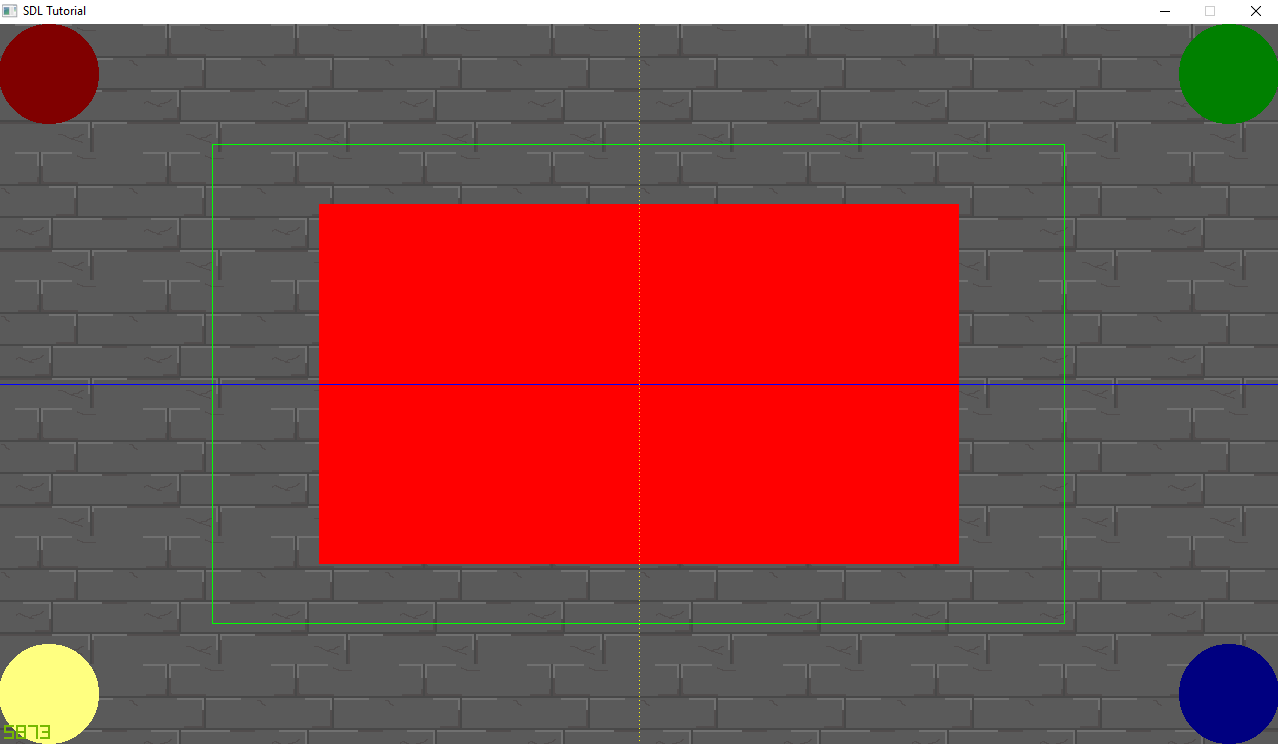
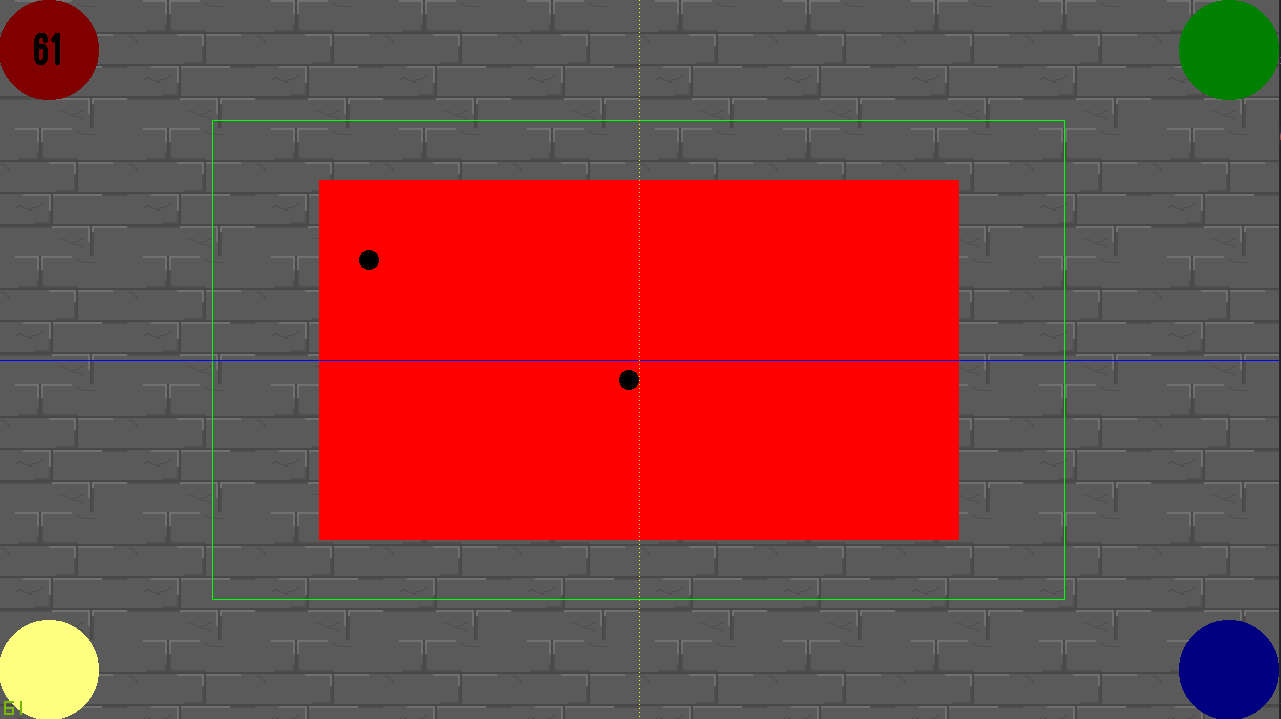
Add dot that bounces around the screen

diff --git a/src/dot.cpp b/src/dot.cpp
@@ -1,10 +1,10 @@
 #include "Dot.h"
 
-Dot::Dot() {
-    mPosX = 0;
-    mPosY = 0;
-    mVelX = 0;
-    mVelY = 0;
+Dot::Dot(int posX, int posY, int velX, int velY) {
+    mPosX = posX;
+    mPosY = posY;
+    mVelX = velX;
+    mVelY = velY;
     mTexture = NULL;
 }
 
@@ -35,6 +35,19 @@ void Dot::move(int screenHeight, int screenWidth) {
     if ((mPosX < 0) || (mPosX + DOT_WIDTH > screenWidth)) mPosX -= mVelX;
     mPosY += mVelY;
     if ((mPosY < 0) || (mPosY + DOT_HEIGHT > screenHeight)) mPosY -= mVelY;
+}
+
+void Dot::autoMove(int screenHeight, int screenWidth) {
+    mPosX += mVelX;
+    if ((mPosX < 0) || (mPosX + DOT_WIDTH > screenWidth)) {
+        mPosX -= mVelX;
+        mVelX = -mVelX;
+    }
+    mPosY += mVelY;
+    if ((mPosY < 0) || (mPosY + DOT_HEIGHT > screenHeight)) { 
+        mPosY -= mVelY;
+        mVelY = -mVelY;
+    }
 }
 
 void Dot::render(SDL_Renderer* renderer) {

diff --git a/src/main.cpp b/src/main.cpp
@@ -104,7 +104,9 @@ int main( int argc, char* args[] ) {
     SDL_Event e;
 
     Dot dot;
+    Dot autoDot(50, 80, 10, 10);
     dot.setTexture(&gDotTexture);
+    autoDot.setTexture(&gDotTexture);
 
     SDL_Color textColor = {0, 0, 0};
 
@@ -154,6 +156,7 @@ int main( int argc, char* args[] ) {
         }
 
         dot.move(SCREEN_HEIGHT, SCREEN_WIDTH);
+        autoDot.autoMove(SCREEN_HEIGHT, SCREEN_WIDTH);
 
         // Calculate and cap fps
         float avgFPS = countedFrames / (fpsTimer.getTicks() / 1000.f);
@@ -202,6 +205,7 @@ int main( int argc, char* args[] ) {
         }
 
         dot.render(gRenderer);
+        autoDot.render(gRenderer);
 
         gTimeTexture.render(gRenderer, 50 - gTimeTexture.getWidth() / 2, 50 - gTimeTexture.getHeight() / 2);
 

diff --git a/include/Dot.h b/include/Dot.h
@@ -15,9 +15,10 @@ class Dot {
         static const int DOT_WIDTH = 20;
         static const int DOT_HEIGHT = 20;
         static const int DOT_VEL = 10;
-        Dot();
+        Dot(int posX = 0, int posY = 0, int velX = 0, int velY = 0);
         void setTexture(Texture* texture);
         void handleEvent(SDL_Event& e);
         void move(int screenHeight, int screenWidth);
+        void autoMove(int screenHeight, int screenWidth);
         void render(SDL_Renderer* renderer);
 };
